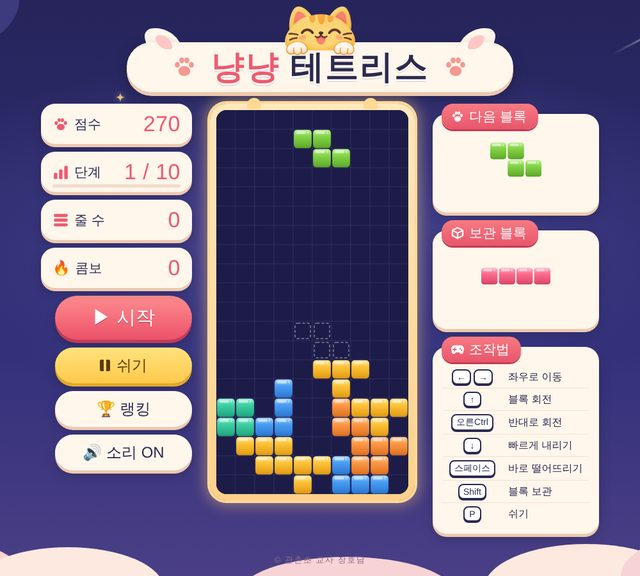
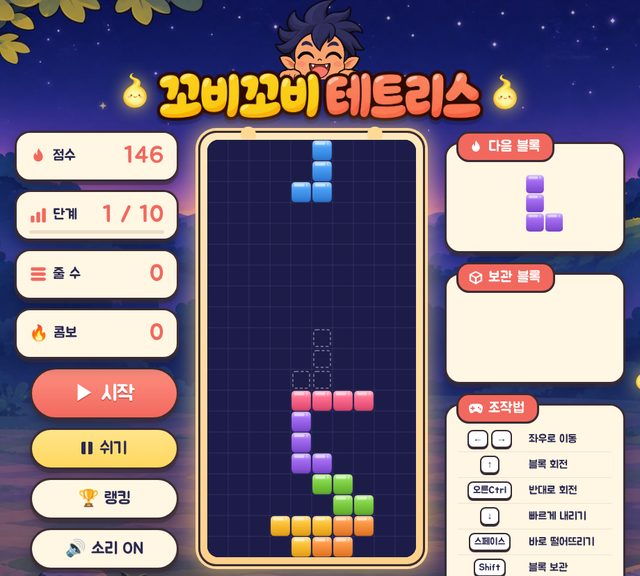
꼬비꼬비 테트리스로 새 단장 (#6)
Claude-Session: https://claude.ai/code/session_01TJDp5YEmzVLNr57VR2WAKv

diff --git a/tetris/index.html b/tetris/index.html
@@ -6,9 +6,9 @@
 <link rel="apple-touch-icon" href="/icons/icon-180.png"/>
 <link rel="icon" type="image/png" href="/icons/icon-192.png"/>
 <link rel="manifest" href="/manifest.webmanifest"/>
-<meta name="apple-mobile-web-app-title" content="꼬비샘 게임방"/>
+<meta name="apple-mobile-web-app-title" content="꼬비샘과 쉬는 시간"/>
 <meta name="theme-color" content="#2a2860"/>
-<title>냥냥 테트리스 - 꼬비샘</title>
+<title>꼬비꼬비 테트리스 - 꼬비샘과 쉬는 시간</title>
 <link href="https://fonts.googleapis.com/css2?family=Jua&display=swap" rel="stylesheet"/>
 <style>
 *{margin:0;padding:0;box-sizing:border-box}
@@ -257,11 +257,75 @@ body{font-family:'Jua',sans-serif;color:var(--ink);background:var(--night);min-h
   .topbar svg{width:18px;height:18px}
   .topbar .t{display:none}
 }
+/* ====== 꼬비 테마 (꼬비샘과 쉬는 시간 홈 화면과 같은 분위기) ====== */
+:root{--line:#3a2b33;--cream:#fff6e4;--cream2:#f3e2c8;--cream-edge:rgba(58,43,51,.55);--coral:#f2685f;--coral2:#ff8f7f;--coral-dark:#b9453d;--sun:#ffd75e;--sun-dark:#c99a1e}
+#sky-bg{background:#2a2860 url(img/bg.jpg) center top/cover no-repeat}
+#sky-bg::after{content:'';position:absolute;inset:0;background:linear-gradient(180deg,rgba(26,22,70,.30),rgba(26,22,70,.12) 40%,rgba(26,22,70,.50))}
+.puff,.paw-deco,.shoot{display:none}
+.card,.tab-card,.modal-box{border:3px solid var(--line);box-shadow:0 5px 0 var(--cream-edge),0 10px 22px rgba(10,8,40,.35)}
+.btn{border:3px solid var(--line);box-shadow:0 5px 0 var(--cream-edge),0 8px 16px rgba(10,8,40,.3)}
+.btn:active{box-shadow:0 0 0 var(--cream-edge)}
+.btn-s,.btn-r{background:linear-gradient(180deg,#ff8f7f,#f2685f);text-shadow:0 2px 0 rgba(120,30,30,.35);box-shadow:0 5px 0 var(--cream-edge),0 8px 16px rgba(10,8,40,.3)}
+.btn-p{background:linear-gradient(180deg,#ffe48a,#ffd75e);color:var(--ink);box-shadow:0 5px 0 var(--cream-edge),0 8px 16px rgba(10,8,40,.3)}
+.btn-s:active,.btn-r:active,.btn-p:active{box-shadow:0 0 0 var(--cream-edge)}
+.card-lbl svg,.tab svg{fill:var(--coral)}
+.tab{background:var(--coral);border:3px solid var(--line);box-shadow:none;top:-18px}
+.tab svg{fill:#fff}
+.lv-bg{background:#efdcc4}
+#board-wrap{border:3px solid var(--line)}
+.result-card,.ranking-list{border:2px solid var(--cream2)}
+.key{border-color:var(--line);box-shadow:0 2px 0 var(--line)}
+/* 제목: 홈 화면 로고처럼 굵은 테두리 글씨 */
+.logo{background:none;box-shadow:none;padding:6px 10px 0;margin:84px 0 14px;gap:14px}
+.logo::before,.logo::after,.logo .ear-in{display:none}
+.game-title{font-size:60px;letter-spacing:1px}
+.game-title span{-webkit-text-stroke:9px var(--line);paint-order:stroke fill;text-shadow:0 6px 0 rgba(20,16,60,.45)}
+.game-title .a{color:var(--sun)}
+.game-title .b{color:var(--coral)}
+.logo .wisp-i{width:34px;height:auto;filter:drop-shadow(0 0 12px rgba(255,220,110,.85));animation:float 4s ease-in-out infinite}
+.logo .wisp-i.r{animation-delay:-2s}
+.peek{width:130px;top:-96px;z-index:-1}
+/* 꼬비 캐릭터 */
+.ggobi{position:fixed;z-index:2;pointer-events:none;filter:drop-shadow(0 8px 10px rgba(10,8,40,.45))}
+.ggobi.wave{left:1.5vw;bottom:-6px;width:clamp(120px,13vw,210px);transform-origin:50% 100%;animation:wave 3.2s ease-in-out infinite}
+.ggobi.peek2{right:1vw;bottom:-4px;width:clamp(130px,14vw,220px);animation:peek 4s ease-in-out infinite}
+.wisp{position:fixed;z-index:1;width:40px;pointer-events:none;filter:drop-shadow(0 0 14px rgba(255,220,110,.85));animation:float 5s ease-in-out infinite}
+@keyframes wave{0%,100%{transform:rotate(0)}50%{transform:rotate(-2.5deg) translateY(-4px)}}
+@keyframes peek{0%,70%,100%{transform:translateY(0)}80%{transform:translateY(8px)}}
+@keyframes float{0%,100%{transform:translateY(0)}50%{transform:translateY(-12px)}}
+.modal-hero{width:170px}
+.topbar a,.topbar button{border:3px solid var(--line);background:var(--sun);box-shadow:0 3px 0 var(--cream-edge);font-size:17px}
+@media (max-height:820px){.logo{margin:70px 0 10px}.game-title{font-size:48px}.peek{width:104px;top:-76px}}
+@media (max-width:1000px){.ggobi,.wisp{display:none}}
+@media (max-width:760px), (pointer:coarse){
+  .ggobi,.wisp{display:none}
+  .logo{margin:50px 0 8px;padding:0;gap:8px}
+  .game-title{font-size:32px}
+  .game-title span{-webkit-text-stroke:5px var(--line);text-shadow:0 3px 0 rgba(20,16,60,.45)}
+  .logo .wisp-i{width:20px}
+  .peek{width:70px;top:-50px}
+  .card.stat{border-width:2.5px}
+  .pad button{border:3px solid var(--line);box-shadow:0 4px 0 var(--cream-edge)}
+  .pad .drop{background:linear-gradient(180deg,#ff8f7f,#f2685f)}
+  .pad .rot{background:linear-gradient(180deg,#ffe48a,#ffd75e)}
+  .panel>.btn{border-width:2.5px}
+  .topbar a,.topbar button{font-size:12px;border-width:2.5px}
+  #sky-bg{background-position:30% top}
+}
+@media (prefers-reduced-motion:reduce){.ggobi,.wisp,.logo .wisp-i{animation:none}}
+
+/* 받은 그림 (로고, 상황별 꼬비) */
+.logo-img{display:block;width:min(470px,36vw);height:auto;filter:drop-shadow(0 6px 0 rgba(20,16,60,.35))}
+.ggobi.block{right:1.2vw;bottom:-4px;width:clamp(110px,11vw,180px);animation:wave 3.6s ease-in-out infinite;animation-delay:-1.4s}
+#pause-overlay .pause-cat{display:block;width:150px;height:auto;margin:0 auto 6px}
+.modal-pic{display:block;width:130px;height:auto;margin:-4px auto 4px;max-height:18vh;object-fit:contain}
+@media (max-height:820px){.logo-img{width:min(400px,32vw)}}
+@media (max-width:760px), (pointer:coarse){.logo-img{width:min(330px,78vw)}#pause-overlay .pause-cat{width:110px}.modal-pic{width:110px}}
 </style>
 </head>
 <body>
 <div class="topbar">
-  <a href="../" id="home-link" title="게임방으로"><svg viewBox="0 0 24 24"><path d="M15 5l-7 7 7 7"/></svg><span class="t">게임방</span></a>
+  <a href="../" id="home-link" title="꼬비샘과 쉬는 시간으로"><svg viewBox="0 0 24 24"><path d="M15 5l-7 7 7 7"/></svg><span class="t">쉬는 시간</span></a>
   <button id="fs-btn" type="button" title="전체화면"><svg viewBox="0 0 24 24"><path d="M4 9V4h5M20 9V4h-5M4 15v5h5M20 15v5h-5"/></svg><span class="t" id="fs-txt">전체화면</span></button>
 </div>
 <script>
@@ -286,7 +350,7 @@ body{font-family:'Jua',sans-serif;color:var(--ink);background:var(--night);min-h
 </script>
 
 <svg width="0" height="0" style="position:absolute" aria-hidden="true">
-  <symbol id="i-paw" viewBox="0 0 24 24"><ellipse cx="12" cy="16.2" rx="5.6" ry="4.6"/><ellipse cx="5.4" cy="10.4" rx="2.3" ry="2.7"/><ellipse cx="9.6" cy="6.2" rx="2.3" ry="2.8"/><ellipse cx="14.4" cy="6.2" rx="2.3" ry="2.8"/><ellipse cx="18.6" cy="10.4" rx="2.3" ry="2.7"/></symbol>
+  <symbol id="i-paw" viewBox="0 0 24 24"><path d="M12.6 1.8c.6 3.4 5.6 5.6 5.6 11.6a6.2 6.2 0 0 1-12.4 0c0-2.9 1.5-4.9 3-6.1-.1 2 .8 3.4 2.1 3.6-.9-3.6.2-6.9 1.7-9.1z"/></symbol>
   <symbol id="i-spark" viewBox="0 0 24 24"><path d="M12 0C13 8 16 11 24 12 16 13 13 16 12 24 11 16 8 13 0 12 8 11 11 8 12 0Z"/></symbol>
   <symbol id="i-bars" viewBox="0 0 24 24"><rect x="2" y="13" width="5" height="9" rx="1.5"/><rect x="9.5" y="8" width="5" height="14" rx="1.5"/><rect x="17" y="3" width="5" height="19" rx="1.5"/></symbol>
   <symbol id="i-lines" viewBox="0 0 24 24"><rect x="2" y="3" width="20" height="4.5" rx="2.2"/><rect x="2" y="9.75" width="20" height="4.5" rx="2.2"/><rect x="2" y="16.5" width="20" height="4.5" rx="2.2"/></symbol>
@@ -320,16 +384,18 @@ body{font-family:'Jua',sans-serif;color:var(--ink);background:var(--night);min-h
   <svg class="paw-deco" style="right:16%;bottom:3%;fill:#f3b9b9;opacity:.8;width:26px;height:26px"><use href="#i-paw"/></svg>
   <div class="shoot"></div>
 </div>
-<!-- 고양이 그림: cats 폴더에 PNG를 넣으면 나타나요 (없으면 자동으로 숨김) -->
-<img class="cat-img left" src="cats/cat-left.png" alt="" onerror="this.remove()">
-<img class="cat-img right" src="cats/cat-right.png" alt="" onerror="this.remove()">
+<!-- 꼬비 캐릭터 -->
+<img class="ggobi wave" src="img/ggobi-wave.png" alt="">
+<img class="ggobi block" src="img/ggobi-block.png" alt="">
+<img class="wisp" src="img/wisp.png" alt="" style="left:12%;top:20%">
+<img class="wisp" src="img/wisp.png" alt="" style="right:10%;top:12%;width:32px;animation-delay:-1.6s">
+<img class="wisp" src="img/wisp.png" alt="" style="right:20%;top:58%;width:26px;animation-delay:-3s">
 <div class="wrap">
   <div class="logo">
-    <span class="ear-in l"></span><span class="ear-in r"></span>
-    <img class="peek" src="cats/cat-peek.png" alt="" onerror="this.remove()">
-    <svg class="paw"><use href="#i-paw"/></svg>
-    <h1 class="game-title"><span class="a">냥냥</span> <span class="b">테트리스</span></h1>
-    <svg class="paw"><use href="#i-paw"/></svg>
+    <img class="peek" src="img/ggobi-peek.png" alt="">
+    <img class="wisp-i" src="img/wisp.png" alt="">
+    <h1 class="game-title"><img class="logo-img" src="img/logo.png" alt="꼬비꼬비 테트리스"></h1>
+    <img class="wisp-i r" src="img/wisp.png" alt="">
   </div>
   <div id="layout">
     <div class="panel">
@@ -354,7 +420,7 @@ body{font-family:'Jua',sans-serif;color:var(--ink);background:var(--night);min-h
         </div>
         <div id="pause-overlay">
           <div>
-            <div class="pause-cat">😴</div>
+            <img class="pause-cat" src="img/ggobi-sleep.png" alt="">
             <h2>잠깐 쉬는 중</h2>
             <p>쉬기 버튼이나 P 키를 누르면 계속!</p>
           </div>
@@ -395,8 +461,8 @@ body{font-family:'Jua',sans-serif;color:var(--ink);background:var(--night);min-h
 <!-- ========= START MODAL ========= -->
 <div id="start-modal" class="modal show">
   <div class="modal-box">
-    <div class="modal-hero"><img src="cats/cat-left.png" alt=""><svg class="hs a"><use href="#i-spark"/></svg><svg class="hs b"><use href="#i-spark"/></svg></div>
-    <div class="modal-title">냥냥 테트리스</div>
+    <div class="modal-hero"><img src="img/ggobi-wave.png" alt="" style="width:46%;margin:0 auto"><svg class="hs a"><use href="#i-spark"/></svg><svg class="hs b"><use href="#i-spark"/></svg></div>
+    <div class="modal-title">꼬비꼬비 테트리스</div>
     <div class="modal-sub">10단계까지 완주해 보세요!</div>
     <div class="result-card rules">
       <div class="rt">🎯 게임 규칙</div>
@@ -417,7 +483,7 @@ body{font-family:'Jua',sans-serif;color:var(--ink);background:var(--night);min-h
 <!-- ========= GAME OVER MODAL ========= -->
 <div id="gameover-modal" class="modal">
   <div class="modal-box">
-    <div class="modal-cat" id="go-cat">😿</div>
+    <img class="modal-pic" id="go-cat" src="img/ggobi-cry.png" alt="">
     <div class="modal-title" id="go-title">게임 끝!</div>
     <div class="modal-sub" id="go-sub">다시 도전해 봐요!</div>
     <div class="newrec-badge" id="newrec-badge">✨ 신기록 ✨</div>
@@ -455,7 +521,7 @@ body{font-family:'Jua',sans-serif;color:var(--ink);background:var(--night);min-h
 <!-- ========= RANKING MODAL ========= -->
 <div id="ranking-modal" class="modal">
   <div class="modal-box">
-    <div class="modal-cat">🏆</div>
+    <img class="modal-pic" src="img/ggobi-trophy.png" alt="">
     <div class="modal-title">랭킹 TOP 50</div>
     <div class="my-rank-note hidden" id="my-rank-note"></div>
     <div class="ranking-list" id="ranking-list">불러오는 중...</div>
@@ -1270,7 +1336,7 @@ function openRanking(){closeAllModals();rankingModal.classList.add('show');showR
 
 function showGameOverModal(){
   const cleared=finalSnapshot.cleared;
-  document.getElementById('go-cat').textContent=cleared?'🏆':'😿';
+  document.getElementById('go-cat').src=cleared?'img/ggobi-trophy.png':'img/ggobi-cry.png';
   document.getElementById('go-title').textContent=cleared?'완주 성공!':'게임 끝!';
   document.getElementById('go-sub').textContent=cleared?'10단계 완주! 최고!':'다시 도전해 봐요!';
   document.getElementById('r-stage').textContent=(cleared?TOTAL_STAGES:finalSnapshot.stage)+(cleared?' / '+TOTAL_STAGES+' ✨':'');
